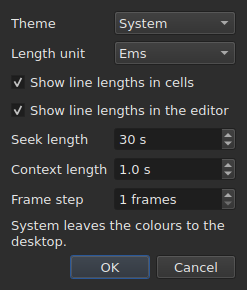
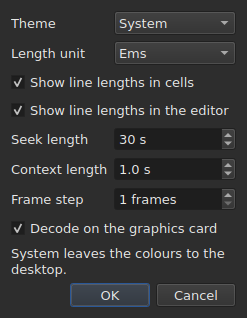
feat(video): décodage matériel avec copie, et un réglage pour le couper
Closes #647

diff --git a/src/lib/subedit/core/config/settings.cpp b/src/lib/subedit/core/config/settings.cpp
@@ -102,6 +102,7 @@ constexpr std::string_view kVideoSeekLengthKey = "video.seek-length";
 constexpr std::string_view kVideoContextLengthKey = "video.context-length-ms";
 constexpr std::string_view kVideoStepFramesKey = "video.step-frames";
 constexpr std::string_view kVideoVolumeKey = "video.volume";
+constexpr std::string_view kVideoHardwareDecodingKey = "video.hardware-decoding";
 constexpr std::string_view kEditorPrefix = "editor.";
 constexpr std::string_view kEditorLengthUnitKey = "editor.length-unit";
 constexpr std::string_view kEditorShowLengthsCellKey = "editor.show-lengths-cell";
@@ -653,8 +654,8 @@ void applySpellCheckOption(SettingsRead& read, std::string_view key, std::string
         take(booleanOf(value), form.inlineCheck);
 }
 
-/// Keeps one of the four options of the video player: the jump, the lead-in, the frame step and the
-/// volume.
+/// Keeps one of the five options of the video player: the jump, the lead-in, the frame step, the
+/// volume and the hardware decoding.
 void applyVideoOption(SettingsRead& read, std::string_view key, std::string_view value) {
     const auto take = [&read, key, value](auto parsed, auto& field) {
         keepOption(read, key, value, std::move(parsed), field);
@@ -671,6 +672,8 @@ void applyVideoOption(SettingsRead& read, std::string_view key, std::string_view
         take(boundedIntegerOf(value, kSmallestStepFrames, kLargestStepFrames), form.stepFrames);
     else if (key == kVideoVolumeKey)
         take(boundedIntegerOf(value, 0, kLargestVolume), form.volume);
+    else if (key == kVideoHardwareDecodingKey)
+        take(booleanOf(value), form.hardwareDecoding);
 }
 
 /// Keeps one of the three options of the editor: the unit lengths are shown in,
@@ -1043,7 +1046,7 @@ void renderEditorSettings(std::string& out, const EditorSettings& form) {
                 form.showLengthsInEditor == defaults.showLengthsInEditor);
 }
 
-/// The four options of the video player, each written bare when it differs from the default and
+/// The five options of the video player, each written bare when it differs from the default and
 /// commented out when it does not.
 void renderVideoSettings(std::string& out, const VideoSettings& form) {
     const VideoSettings defaults;
@@ -1060,6 +1063,10 @@ void renderVideoSettings(std::string& out, const VideoSettings& form) {
                 std::to_string(form.stepFrames),
                 form.stepFrames == defaults.stepFrames);
     writeOption(out, kVideoVolumeKey, std::to_string(form.volume), form.volume == defaults.volume);
+    writeOption(out,
+                kVideoHardwareDecodingKey,
+                std::string{flagText(form.hardwareDecoding)},
+                form.hardwareDecoding == defaults.hardwareDecoding);
 }
 
 } // namespace

diff --git a/src/lib/subedit/gui/mpv_player.cpp b/src/lib/subedit/gui/mpv_player.cpp
@@ -46,19 +46,25 @@ namespace {
 /// draws would land on top of a stale one. The overlay is the only subtitle
 /// this player is ever to know.
 ///
+/// **`hwdec=auto-copy` is issue #647**: the card decodes and the picture is copied back, which
+/// the software render accepts where it refuses the zero-copy kind. A machine without a card
+/// decodes on the processor all the same; `Preferences…` can turn it off through
+/// `setHardwareDecoding`.
+///
 /// **`keep-open=yes` is what lets a film end without being lost** — issue #614.
 /// By default mpv unloads the file when playback reaches its end, and the next
 /// question — the position, the duration, a step back — is answered « property
 /// unavailable ». Measured: one `frame-step` past the last frame and the film was
 /// gone. Kept open, the film stays on its last frame, held, and everything asked
 /// of it afterwards still has an answer; `isPlaying` says it stopped.
-constexpr std::array<std::pair<const char*, const char*>, 6> kEveryPlayer{{
+constexpr std::array<std::pair<const char*, const char*>, 7> kEveryPlayer{{
     {"config", "no"},
     {"terminal", "no"},
     {"pause", "yes"},
     {"sub-auto", "no"},
     {"keep-open", "yes"},
     {"vo", "libmpv"},
+    {"hwdec", "auto-copy"},
 }};
 
 /// What a player that makes no sound is built with — the shape of every test.
@@ -629,6 +635,12 @@ bool MpvPlayer::isPlaying() const {
 int MpvPlayer::volume() const {
     // Answered with nothing open as well: the volume is the player's, not the film's.
     return static_cast<int>(std::llround(seconds(m_handle.get(), "volume").value_or(0.0)));
+}
+
+void MpvPlayer::setHardwareDecoding(bool allowed) {
+    // `auto-copy` decodes on the card and copies the picture back, which is what the software
+    // render needs (ADR 0041); mpv falls back to the processor by itself when no card answers.
+    mpv_set_property_string(m_handle.get(), "hwdec", allowed ? "auto-copy" : "no");
 }
 
 void MpvPlayer::setVolume(int volume) {

diff --git a/src/lib/subedit/gui/preferences_dialog.cpp b/src/lib/subedit/gui/preferences_dialog.cpp
@@ -51,7 +51,8 @@ PreferencesDialog::PreferencesDialog(core::Theme theme,
       m_showInEditor(new QCheckBox{QStringLiteral("Show line lengths in the editor"), this}),
       m_seekLength(new QSpinBox{this}),
       m_contextLength(new QDoubleSpinBox{this}),
-      m_stepFrames(new QSpinBox{this}) {
+      m_stepFrames(new QSpinBox{this}),
+      m_hardwareDecoding(new QCheckBox{QStringLiteral("Decode on the graphics card"), this}) {
     setWindowTitle(QStringLiteral("Preferences"));
 
     for (const core::Theme one : kThemes)
@@ -88,6 +89,7 @@ PreferencesDialog::PreferencesDialog(core::Theme theme,
     m_stepFrames->setRange(core::kSmallestStepFrames, core::kLargestStepFrames);
     m_stepFrames->setSuffix(QStringLiteral(" frames"));
     m_stepFrames->setValue(video.stepFrames);
+    m_hardwareDecoding->setChecked(video.hardwareDecoding);
 
     auto* fields = new QFormLayout;
     fields->addRow(QStringLiteral("Theme"), m_theme);
@@ -97,6 +99,7 @@ PreferencesDialog::PreferencesDialog(core::Theme theme,
     fields->addRow(QStringLiteral("Seek length"), m_seekLength);
     fields->addRow(QStringLiteral("Context length"), m_contextLength);
     fields->addRow(QStringLiteral("Frame step"), m_stepFrames);
+    fields->addRow(m_hardwareDecoding);
 
     // What "system" does, said where it is read: without this line, a reader
     // who picks "System" and sees nothing change believes it broken.
@@ -130,7 +133,8 @@ core::VideoSettings PreferencesDialog::video() const {
     return {.seekLengthSeconds = m_seekLength->value(),
             .contextLengthMilliseconds =
                 static_cast<int>(std::lround(m_contextLength->value() * kMillisecondsPerSecond)),
-            .stepFrames = m_stepFrames->value()};
+            .stepFrames = m_stepFrames->value(),
+            .hardwareDecoding = m_hardwareDecoding->isChecked()};
 }
 
 core::Theme PreferencesDialog::theme() const {

diff --git a/src/test/bench/gui/video_bench.cpp b/src/test/bench/gui/video_bench.cpp
@@ -27,6 +27,7 @@
 #include <filesystem>
 #include <optional>
 #include <string>
+#include <string_view>
 #include <utility>
 #include <vector>
 
@@ -239,6 +240,10 @@ TEST_CASE("seeking and stepping on a film-sized video", "[benchmark][film]") {
 // steps would measure a distance that grows with the loop. **The figure to compare it to is the
 // length of a frame** — 40 ms at 25 images a second: a step that costs more is felt under a
 // finger. Without the variable the benchmark says so and abstains.
+//
+// **It is played by hand, once in a while, and never by `make bench`**: at the default hundred
+// samples a film of 4K takes an hour a series. `--benchmark-samples 10` gives the order of
+// magnitude in a few minutes, and `SUBEDIT_BENCH_HWDEC=no` is the series without the card.
 TEST_CASE("seeking and stepping on a real film", "[benchmark][realfilm]") {
     const char* named = std::getenv("SUBEDIT_BENCH_REAL_FILM");
     if (named == nullptr || !std::filesystem::exists(named))
@@ -246,6 +251,10 @@ TEST_CASE("seeking and stepping on a real film", "[benchmark][realfilm]") {
 
     std::expected<MpvPlayer, PlayerError> built = MpvPlayer::create();
     MpvPlayer player = std::move(built.value());
+    // `SUBEDIT_BENCH_HWDEC=no` is the series without the card — issue #647 — so that the two are
+    // taken on the same film by the same binary.
+    const char* hardware = std::getenv("SUBEDIT_BENCH_HWDEC");
+    player.setHardwareDecoding(hardware == nullptr || std::string_view{hardware} != "no");
     REQUIRE(player.open(std::filesystem::path{named}).has_value());
 
     constexpr std::size_t kBytesAPixel = 4;

diff --git a/src/test/unit/core/config/settings_test.cpp b/src/test/unit/core/config/settings_test.cpp
@@ -955,6 +955,7 @@ TEST_CASE("the video options at their default are written back commented out", "
     CHECK_THAT(rendered, ContainsSubstring("#video.context-length-ms = 1000\n"));
     CHECK_THAT(rendered, ContainsSubstring("#video.step-frames = 1\n"));
     CHECK_THAT(rendered, ContainsSubstring("#video.volume = 100\n"));
+    CHECK_THAT(rendered, ContainsSubstring("#video.hardware-decoding = true\n"));
 
     CHECK_THAT(renderSettings(Settings{.video = {.volume = 40}}),
                ContainsSubstring("\nvideo.volume = 40\n"));
@@ -1008,4 +1009,18 @@ TEST_CASE("the edges of the video bounds are accepted", "[config]") {
     CHECK(read.settings.video ==
           VideoSettings{.seekLengthSeconds = 1, .contextLengthMilliseconds = 0, .volume = 0});
     CHECK(read.diagnostics.empty());
+}
+
+// Issue #647: the card decodes unless somebody says otherwise, and the choice is kept.
+TEST_CASE("hardware decoding is on by default and can be turned off", "[config]") {
+    CHECK(readOf("").settings.video.hardwareDecoding);
+    CHECK_FALSE(readOf("video.hardware-decoding = false\n").settings.video.hardwareDecoding);
+    CHECK(readOf("video.hardware-decoding = true\n").settings.video.hardwareDecoding);
+
+    CHECK_THAT(renderSettings(Settings{.video = {.hardwareDecoding = false}}),
+               ContainsSubstring("\nvideo.hardware-decoding = false\n"));
+
+    const SettingsRead unreadable = readOf("video.hardware-decoding = maybe\n");
+    CHECK(unreadable.settings.video.hardwareDecoding);
+    CHECK(unreadable.diagnostics.size() == 1);
 }

diff --git a/src/test/gui/mpv_player_test.cpp b/src/test/gui/mpv_player_test.cpp
@@ -401,6 +401,26 @@ TEST_CASE("a step forward shows the next frame", "[video][player][numbered][step
     CHECK(stepping.position() == Timestamp::fromMilliseconds(40));
 }
 
+// Issue #647: the exactness is the same whether the card decodes or not. Where the machine has
+// none, both runs are in software and the case says no more than the one above; where it has one,
+// it proves the copy back is the frame that was asked for.
+TEST_CASE("seeking and stepping are exact with and without hardware decoding",
+          "[video][player][numbered][step]") {
+    const bool allowed = GENERATE(true, false);
+    MpvPlayer stepping = player();
+    stepping.setHardwareDecoding(allowed);
+    REQUIRE(stepping.open(fixture("videos/images-25.mp4")).has_value());
+
+    stepping.seek(Timestamp::fromMilliseconds(subedit::test::startOf(100, 25, 1)));
+    CHECK(shownFrame(stepping) == 100);
+
+    stepping.stepFrames(1);
+    CHECK(shownFrame(stepping) == 101);
+
+    stepping.stepFrames(-2);
+    CHECK(shownFrame(stepping) == 99);
+}
+
 TEST_CASE("a step back shows the previous frame", "[video][player][numbered][step]") {
     MpvPlayer stepping = player();
     REQUIRE(stepping.open(fixture("videos/images-25.mp4")).has_value());

diff --git a/src/test/gui/window_player_test.cpp b/src/test/gui/window_player_test.cpp
@@ -475,6 +475,21 @@ TEST_CASE("the gestures of the volume move it from five to five", "[gui][GUI-VOL
     CHECK(window.settings().video.volume == 55);
 }
 
+// Issue #647: the permission reaches the player when it is built, and again when it changes.
+TEST_CASE("the hardware decoding setting reaches the player", "[gui][video]") {
+    InMemoryFileSystem files = directoryHolding({"film.mkv"});
+    FakePrompts prompts;
+    Projectionist booth;
+    MainWindow window{files, fileIn(files, "/films/film.fr.srt"), prompts, projecting(booth)};
+    window.applySettings(subedit::core::Settings{.video = {.hardwareDecoding = false}});
+    window.show();
+    REQUIRE(booth.player != nullptr);
+    CHECK_FALSE(booth.player->hardwareDecoding);
+
+    window.applySettings(subedit::core::Settings{.video = {.hardwareDecoding = true}});
+    CHECK(booth.player->hardwareDecoding);
+}
+
 // The bar is under the picture, in the room above the table, and shown with it.
 TEST_CASE("the bar is shown with the picture and hidden with it", "[gui][GUI-SEEK-01]") {
     InMemoryFileSystem files = directoryHolding({"film.mkv"});

diff --git a/src/lib/subedit/gui/video_pane.cpp b/src/lib/subedit/gui/video_pane.cpp
@@ -320,8 +320,10 @@ core::VideoPlayer* VideoPane::player() {
         m_picture->attach(dynamic_cast<FrameSource*>(m_player.get()));
 
         // What the volume was left at, from the settings or the last gesture.
-        if (m_player != nullptr)
+        if (m_player != nullptr) {
             m_player->setVolume(m_settings.volume);
+            m_player->setHardwareDecoding(m_settings.hardwareDecoding);
+        }
     }
 
     return m_player.get();
@@ -623,6 +625,8 @@ core::VideoSettings VideoPane::settings() const {
 void VideoPane::setSettings(const core::VideoSettings& settings) {
     m_settings = settings;
     applyVolume(settings.volume);
+    if (m_player != nullptr)
+        m_player->setHardwareDecoding(settings.hardwareDecoding);
 }
 
 void VideoPane::applyVolume(int volume) {

diff --git a/src/lib/subedit/core/video/video_player.hpp b/src/lib/subedit/core/video/video_player.hpp
@@ -189,6 +189,12 @@ public:
     /// nearest bound, so that a caller adding a step never has to clamp first.
     virtual void setVolume(int volume) = 0;
 
+    /// Chooses whether decoding may go to the graphics card (`true`) or stays on the processor.
+    /// Where the machine has no card the player decodes in software either way, and says
+    /// nothing: the choice is a permission and not a demand. Takes effect for the film being
+    /// played at its next seek, and for the films opened afterwards.
+    virtual void setHardwareDecoding(bool allowed) = 0;
+
     /// The audio tracks of the open video, in the file's order — none when no
     /// video is open, and none for a video without sound. **Neither is an
     /// error**: the menu shows an empty list.

diff --git a/src/test/gui/window_settings_test.cpp b/src/test/gui/window_settings_test.cpp
@@ -717,3 +717,14 @@ TEST_CASE("GUI-VOLUME-01: the settings the window reopens with carry the volume"
     CHECK(fixture.window().settings().video.volume == 35);
     CHECK(fixture.window().settings().video.seekLengthSeconds == 20);
 }
+
+TEST_CASE("the preferences offer hardware decoding, on, and the player follows the choice",
+          "[gui][config][video]") {
+    const subedit::gui::PreferencesDialog defaults{Theme::System};
+    CHECK(defaults.hardwareDecodingBox()->isChecked());
+    CHECK(defaults.video().hardwareDecoding);
+
+    const subedit::gui::PreferencesDialog off{Theme::System, {}, {.hardwareDecoding = false}};
+    CHECK_FALSE(off.hardwareDecodingBox()->isChecked());
+    CHECK_FALSE(off.video().hardwareDecoding);
+}

diff --git a/src/test/gui/fake_video_player.hpp b/src/test/gui/fake_video_player.hpp
@@ -78,6 +78,7 @@ public:
     std::vector<core::Timestamp> stops{};
 
     int level = 100;
+    bool hardwareDecoding = true;
 
     /// What the open video offers. The track playing is the one marked
     /// `selected`; a case that wants none leaves it empty.
@@ -167,6 +168,8 @@ public:
     [[nodiscard]] int volume() const override { return level; }
 
     void setVolume(int volume) override { level = std::clamp(volume, 0, 100); }
+
+    void setHardwareDecoding(bool allowed) override { hardwareDecoding = allowed; }
 
     [[nodiscard]] std::vector<core::AudioTrack> audioTracks() const override {
         return m_open ? tracks : std::vector<core::AudioTrack>{};

diff --git a/src/lib/subedit/core/config/video_settings.hpp b/src/lib/subedit/core/config/video_settings.hpp
@@ -53,6 +53,12 @@ struct VideoSettings {
     /// The volume, 0 to 100.
     int volume = kLargestVolume;
 
+    /// Whether the player decodes on the graphics card where the machine has one — issue #647.
+    /// **On by default**: a heavy 4K film does not keep real time on two cores, and the card
+    /// does. The player falls back to software by itself where there is no card, so the box
+    /// only has to be cleared by somebody whose card decodes badly.
+    bool hardwareDecoding = true;
+
     friend bool operator==(const VideoSettings&, const VideoSettings&) = default;
 };
 
